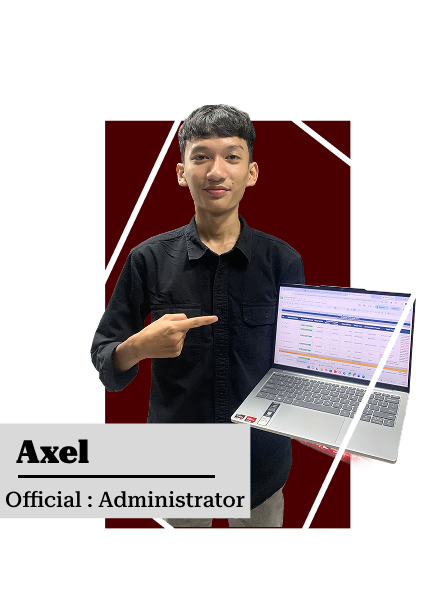
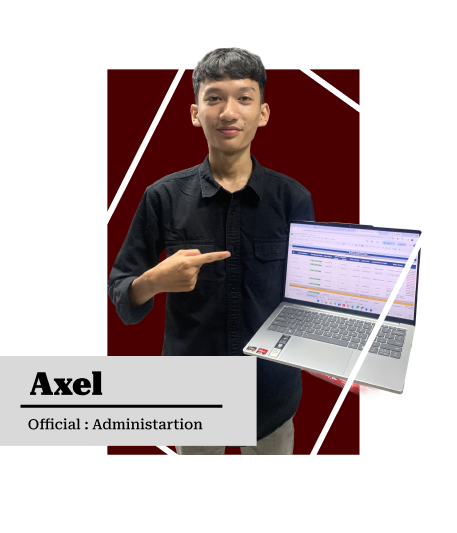
Update: Menambah bagian section Official division di page halaman

Changed region(s): [[0.0, 0.0901, 0.9327, 0.8705]]

diff --git a/app/team/page.jsx b/app/team/page.jsx
@@ -22,14 +22,15 @@ const TimTeknikal =[
 
 const TimOfficial = [
     {
-        id : 1,
-        name: "Axel",
-        image: "/image/TeamPage/Axel.png",
+        id: 1,
+        name: "Rifky",
+        image: "/image/TeamPage/Rifky.png",
     },
     {
-        id: 2,
-        name: "Rifky",
-        image: "/image/TeampPage/Rifky.png",
+        
+        id : 2,
+        name: "Axel",
+        image: "/image/TeamPage/Axel.png",
     },
     {
         id: 3,
@@ -61,8 +62,7 @@ export default function timPage() {
                     <span className="text-[#E99040]">GATON</span>
                     <span className="text-[#FFA600]">OMOUS</span>
             </h2>
-
-
+                {/* ini buat teknikal*/}
                 <div className="mx-auto  w-full max-w-[1230px] px-4 pb-20 md:px-8 md:px-28">
                     <div className="mt-16">
                         <div className="flex items-center gap-3">
@@ -76,15 +76,35 @@ export default function timPage() {
                         <div className="mt-8 grid grid-cols-1 gap-x-8 gap-y-12 sm:grid-cols 2 lg:grid-cols-3 ">
                             {TimTeknikal.map((member) => (
                                 <article key={member.id} className="group relative h-[400px] w-full max-w-[320px] justify-self-center overflow-hidden md:h-[440px] lg:max-w-[360px]">
-                                    <Image src={member.image} alt={'${member.name} Technical Division gatonomous '} fill sizes="(min-width: 1024px) 360px, (min-width= 640px) 50vw, 320px"
-                                    className="object-contain transition-transform duration-300 ease-out group-hover:scale-105"
+                                    <Image src={member.image} alt={'${member.name} Technical Division gatonomous '} fill sizes="(min-width: 1024px) 360px, (min-width= 640px) 50vw, 320px" className="object-contain"/>
+                                </article>
+                            ))}
+                        </div>
+                    </div>
+                </div>
+
+                {/*ini buat yang official */} 
+                <div className="mx-auto  w-full max-w-[1230px] px-4 pb-20 md:px-8 md:px-28">
+                    <div className="mt-16">
+                        <div className="flex items-center justify-end gap-3">
+                            <h3 className="text-right text-sm font-semibold text-white md:text-base">
+                                Official Division
+                            </h3>
+                            <span aria-hidden="true" className="h-[2px] w-24 bg-gat-orange md:-36" />
+
+                        </div>
+                        {/*foto */}
+                        <div className="mt-8 grid grid-cols-1 gap-x-8 gap-y-12 sm:grid-cols 2 lg:grid-cols-3 ">
+                            {TimOfficial.map((member) => (
+                                <article key={member.id} className="group relative aspect-[446/561] w-full max-w-[320px] justify-self-center overflow-hidden md:h-[440px] lg:max-w-[360px]">
+                                    <Image src={member.image} alt={'${member.name} Official Division gatonomous '} fill sizes="(min-width: 1024px) 360px, (min-width= 640px) 50vw, 320px"
+                                    className="object-contain"
                                     />
                                 </article>
                             ))}
                         </div>
                     </div>
-                                
-                </div>
+                </div>         
         </main>
     );
 }
